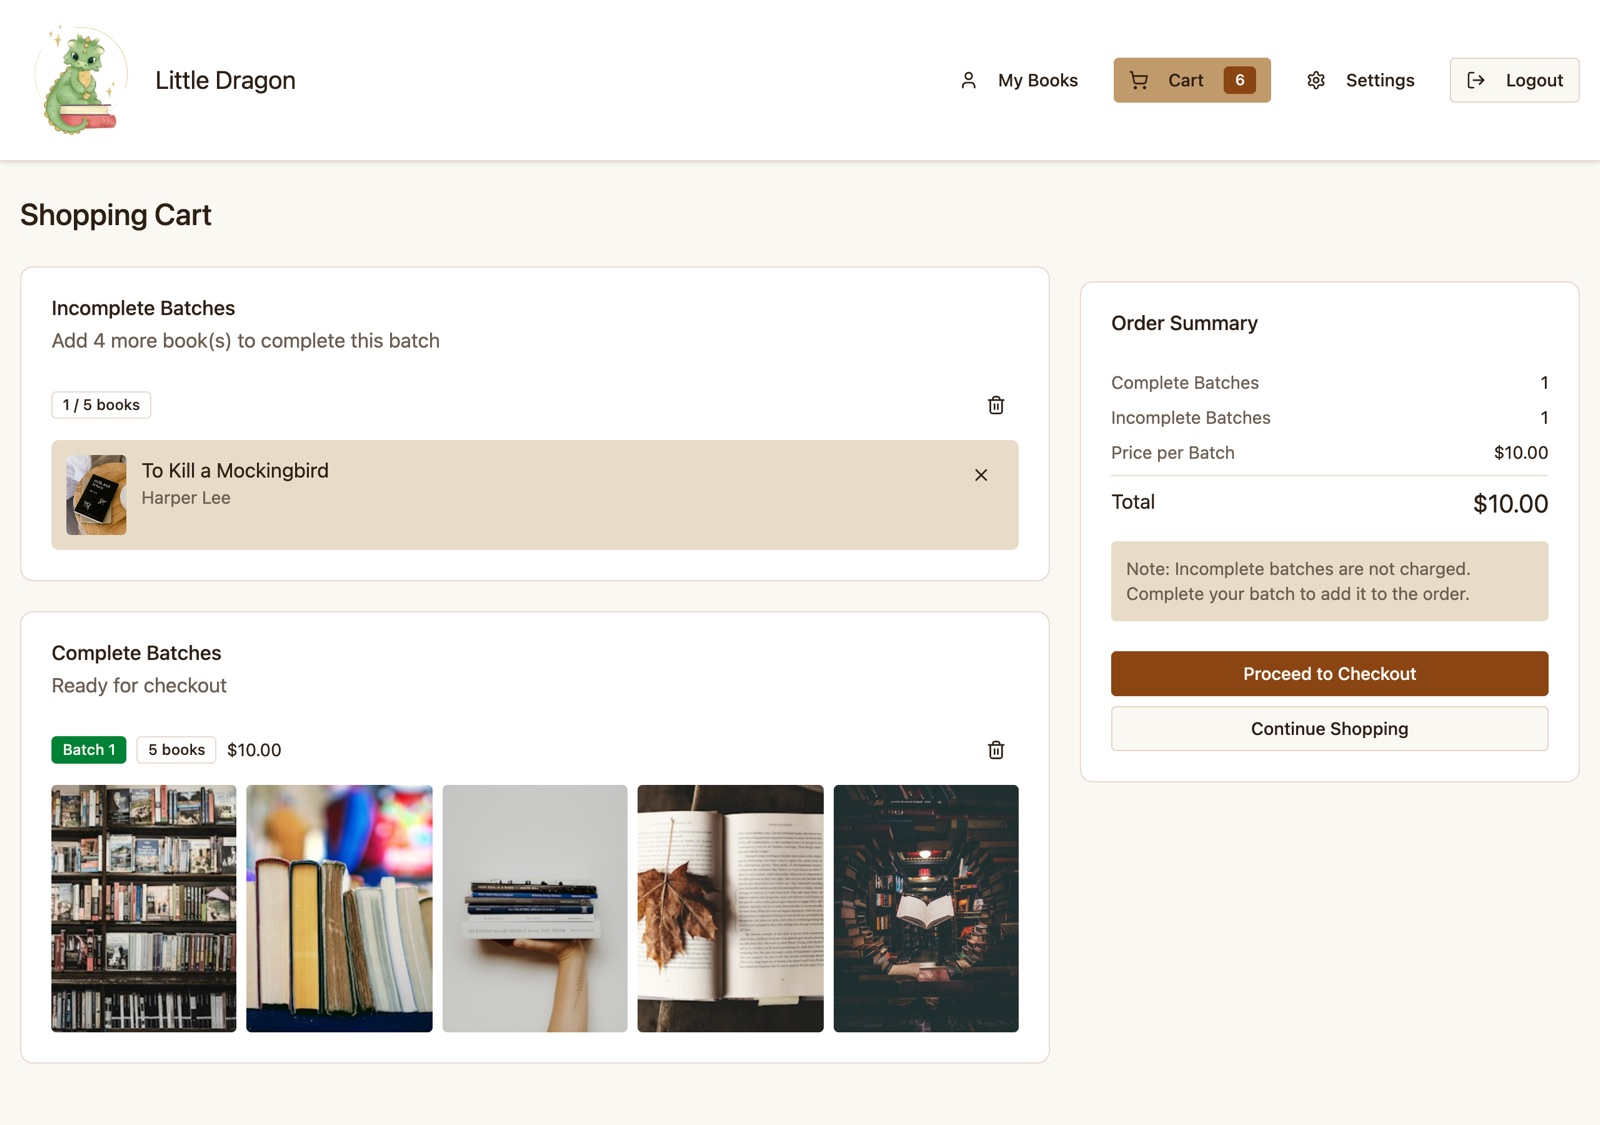
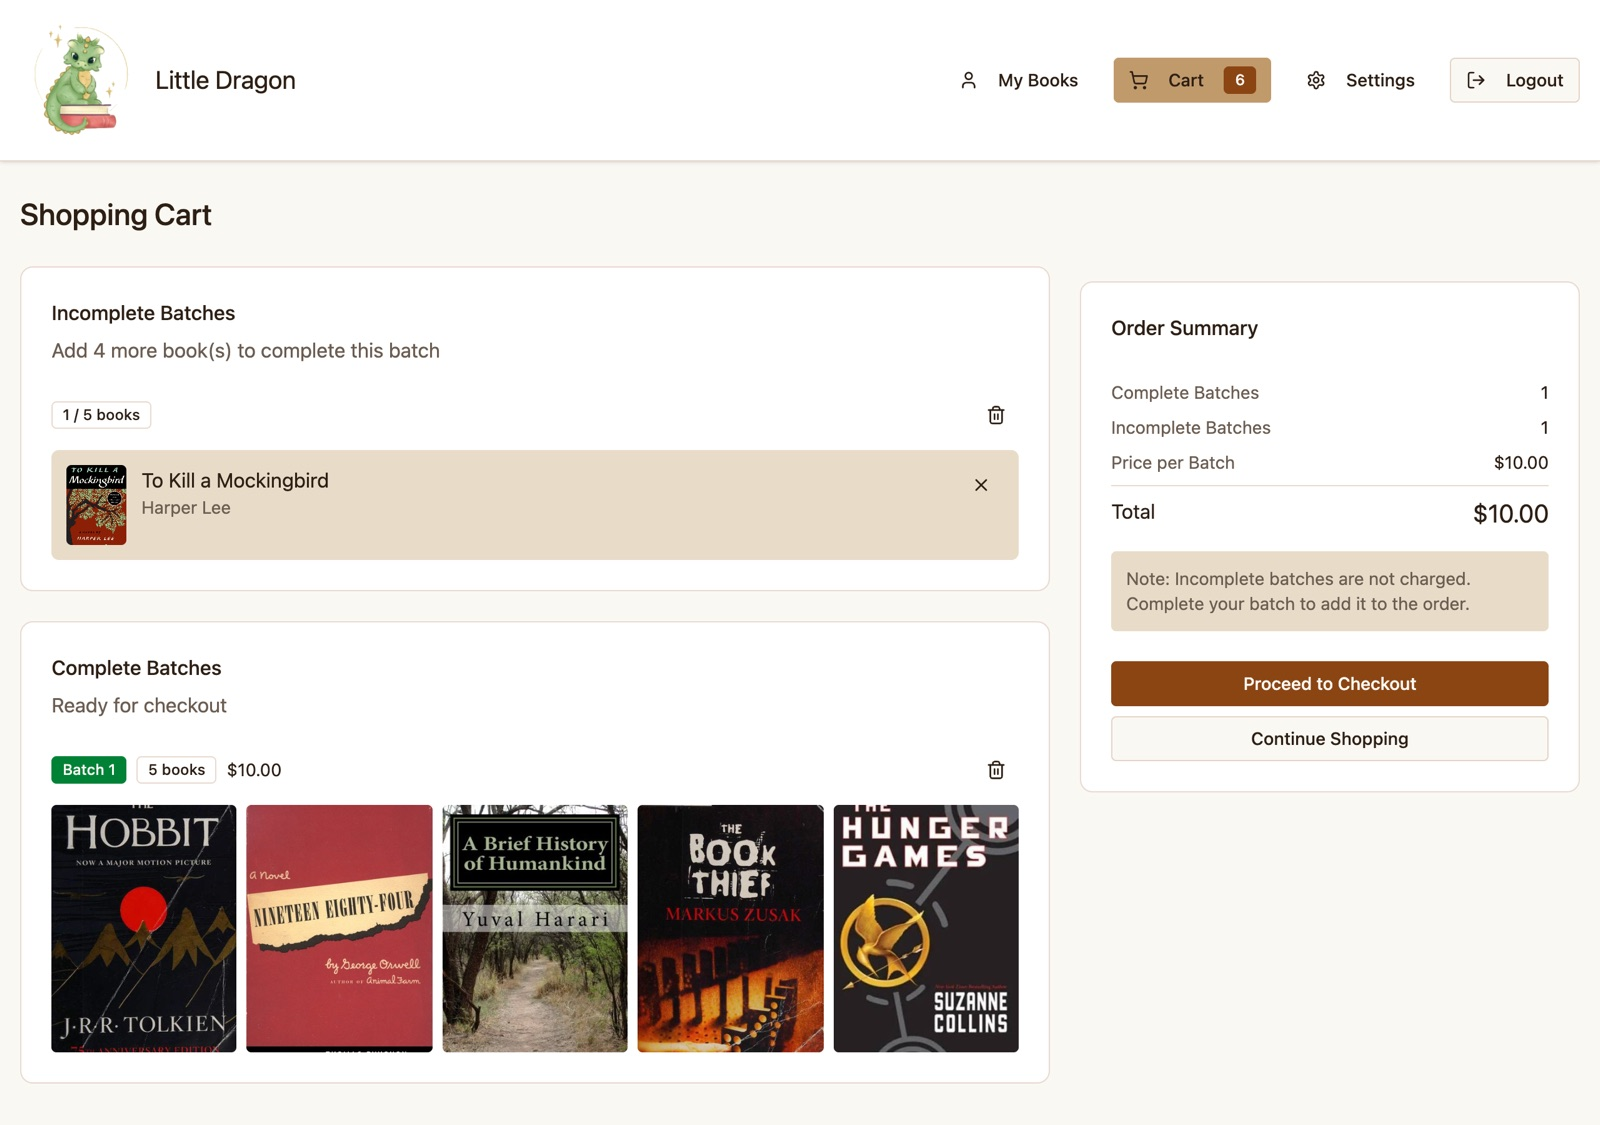
Tidy up after merging the UI improvement branches
- Alembic: notifications migration (0003) now follows order numbers (0002),
  so there is a single head.
- Use the shared useFormat() helpers for the "expected back" date and the
  batch price; remove the duplicate utils/dates.ts.
- Customer emails show the order number in the subject and body.
- Refresh the README screenshots from the merged app.

Changed region(s): [[0.0312, 0.56, 0.6562, 0.9644], [0.6875, 0.28, 0.9688, 0.6844], [0.0312, 0.2489, 0.6562, 0.4978]]

diff --git a/src/app/components/BatchProgress.tsx b/src/app/components/BatchProgress.tsx
@@ -4,13 +4,15 @@ import { Layers } from 'lucide-react';
 import { useCart } from '../contexts/CartContext';
 import { Progress } from './ui/progress';
 import { Button } from './ui/button';
+import { useFormat } from '../utils/format';
 
 /**
  * Explains batch lending on the catalogue and shows how far the cart is from the
  * next complete batch (only complete batches can be ordered).
  */
 export function BatchProgress() {
-  const { t, i18n } = useTranslation();
+  const { t } = useTranslation();
+  const fmt = useFormat();
   const navigate = useNavigate();
   const { cart, batchConfig, currency, isLoaded } = useCart();
   const perBatch = Math.max(batchConfig.booksPerBatch, 1);
@@ -21,14 +23,7 @@ export function BatchProgress() {
   // Until the server cart arrives the context holds defaults; never show a wrong price.
   if (!isLoaded) return null;
 
-  let price: string;
-  try {
-    price = new Intl.NumberFormat(i18n.language, { style: 'currency', currency }).format(
-      batchConfig.pricePerBatch,
-    );
-  } catch {
-    price = `${batchConfig.pricePerBatch.toFixed(2)} ${currency}`;
-  }
+  const price = fmt.money(batchConfig.pricePerBatch, currency);
 
   return (
     <div className="mb-6 rounded-lg border border-border bg-muted/40 p-4 flex flex-col md:flex-row md:items-center gap-3 md:gap-6">

diff --git a/src/app/components/BookDetailsModal.tsx b/src/app/components/BookDetailsModal.tsx
@@ -11,7 +11,7 @@ import { useOrders } from '../contexts/OrdersContext';
 import { toast } from 'sonner';
 import { useTranslation } from 'react-i18next';
 import { getCartButtonLabel, getCategoryTranslation } from '../utils/translations';
-import { formatCalendarDate } from '../utils/dates';
+import { useFormat } from '../utils/format';
 import { errorMessage } from '../utils/apiErrors';
 
 interface BookDetailsModalProps {
@@ -21,7 +21,8 @@ interface BookDetailsModalProps {
 }
 
 export function BookDetailsModal({ book, open, onOpenChange }: BookDetailsModalProps) {
-  const { t, i18n } = useTranslation();
+  const { t } = useTranslation();
+  const fmt = useFormat();
   const { addBookToCart, isBookInCart } = useCart();
   const { isBookUnavailable } = useOrders();
   const inCart = book ? isBookInCart(book.id) : false;
@@ -202,7 +203,7 @@ export function BookDetailsModal({ book, open, onOpenChange }: BookDetailsModalP
             </div>
             {isOrderedByOther && book.availableFrom && (
               <p className="text-sm text-muted-foreground">
-                {t('availability.expectedBack', { date: formatCalendarDate(book.availableFrom, i18n.language) })}
+                {t('availability.expectedBack', { date: fmt.date(book.availableFrom) })}
               </p>
             )}
 

diff --git a/src/app/components/BookCard.tsx b/src/app/components/BookCard.tsx
@@ -11,7 +11,7 @@ import useEmblaCarousel from 'embla-carousel-react';
 import { BookDetailsModal } from './BookDetailsModal';
 import { useTranslation } from 'react-i18next';
 import { getCartButtonLabel, getCategoryTranslation, getStatusTranslation } from '../utils/translations';
-import { formatCalendarDate } from '../utils/dates';
+import { useFormat } from '../utils/format';
 import { errorMessage } from '../utils/apiErrors';
 
 interface BookCardProps {
@@ -19,7 +19,8 @@ interface BookCardProps {
 }
 
 export function BookCard({ book }: BookCardProps) {
-  const { t, i18n } = useTranslation();
+  const { t } = useTranslation();
+  const fmt = useFormat();
   const { addBookToCart, isBookInCart } = useCart();
   const { isBookUnavailable } = useOrders();
   const inCart = isBookInCart(book.id);
@@ -168,7 +169,7 @@ export function BookCard({ book }: BookCardProps) {
           </div>
           {isOrderedByOther && book.availableFrom && (
             <p className="text-xs text-muted-foreground">
-              {t('availability.expectedBack', { date: formatCalendarDate(book.availableFrom, i18n.language) })}
+              {t('availability.expectedBack', { date: fmt.date(book.availableFrom) })}
             </p>
           )}
         </div>

diff --git a/backend/tests/test_notifications.py b/backend/tests/test_notifications.py
@@ -4,6 +4,7 @@ import smtplib
 import uuid
 from datetime import UTC, date, datetime, timedelta
 from email.message import EmailMessage
+from typing import Any
 
 from fastapi import FastAPI
 from sqlalchemy import select, update
@@ -21,11 +22,11 @@ async def _notifications(app: FastAPI) -> list[Notification]:
         )
 
 
-async def _order(customer: ApiUser, create_book: CreateBook, title: str) -> dict[str, str]:
+async def _order(customer: ApiUser, create_book: CreateBook, title: str) -> dict[str, Any]:
     await fill_cart(customer, [await create_book(title)])
     response = await place_order(customer)
     assert response.status_code == 201
-    order: dict[str, str] = response.json()
+    order: dict[str, Any] = response.json()
     return order
 
 
@@ -102,15 +103,18 @@ async def test_delivery_sends_a_bilingual_email(
     app: FastAPI, customer: ApiUser, create_book: CreateBook, set_batch: SetBatch
 ) -> None:
     await set_batch(1)
-    await _order(customer, create_book, "The Left Hand of Darkness")
+    order = await _order(customer, create_book, "The Left Hand of Darkness")
     send = FakeSender()
     await _deliver(app, send)
 
     assert len(send.messages) == 1
     message = send.messages[0]
     assert customer.email in message["To"]
-    assert message["Subject"] == "We received your request · Заявка получена"
+    number = order["number"]
+    assert message["Subject"] == f"We received your request · Заявка получена (#{number})"
     body = message.get_content()
+    assert f"Order #{number}: we have received" in body
+    assert f"Заказ №{number}: мы получили" in body
     assert "Hello Charlie Customer" in body
     assert "Здравствуйте, Charlie Customer!" in body
     assert "The Left Hand of Darkness" in body

diff --git a/backend/app/services/notifications.py b/backend/app/services/notifications.py
@@ -138,10 +138,13 @@ def _render(kind: NotificationKind, user: User, order: Order, app_url: str) -> t
         ),
     }
     subject, english, russian = texts[kind]
+    subject = f"{subject} (#{order.number})"
     body = (
-        f"Hello {user.full_name},\n\n{english}\n\n— Little Dragon library\n\n"
+        f"Hello {user.full_name},\n\nOrder #{order.number}: {english}\n\n"
+        "— Little Dragon library\n\n"
         f"----------------------------------------\n\n"
-        f"Здравствуйте, {user.full_name}!\n\n{russian}\n\n— Библиотека Little Dragon\n"
+        f"Здравствуйте, {user.full_name}!\n\nЗаказ №{order.number}: {russian}\n\n"
+        "— Библиотека Little Dragon\n"
     )
     return subject, body
 

diff --git a/backend/alembic/versions/20261106_0003_notifications.py b/backend/alembic/versions/20261106_0003_notifications.py
@@ -1,11 +1,9 @@
 """notifications
 
 Outbox table for customer emails (see app.services.notifications).
-Note: when merged together with the order-numbers branch (revision 0002), set
-down_revision here to "0002" so the history stays linear.
 
 Revision ID: 0003
-Revises: 0001
+Revises: 0002
 Create Date: 2026-11-06 15:33:31.224231+00:00
 """
 
@@ -16,7 +14,7 @@ import sqlalchemy as sa
 from alembic import op
 
 revision: str = "0003"
-down_revision: str | None = "0001"
+down_revision: str | None = "0002"
 branch_labels: str | Sequence[str] | None = None
 depends_on: str | Sequence[str] | None = None
 
